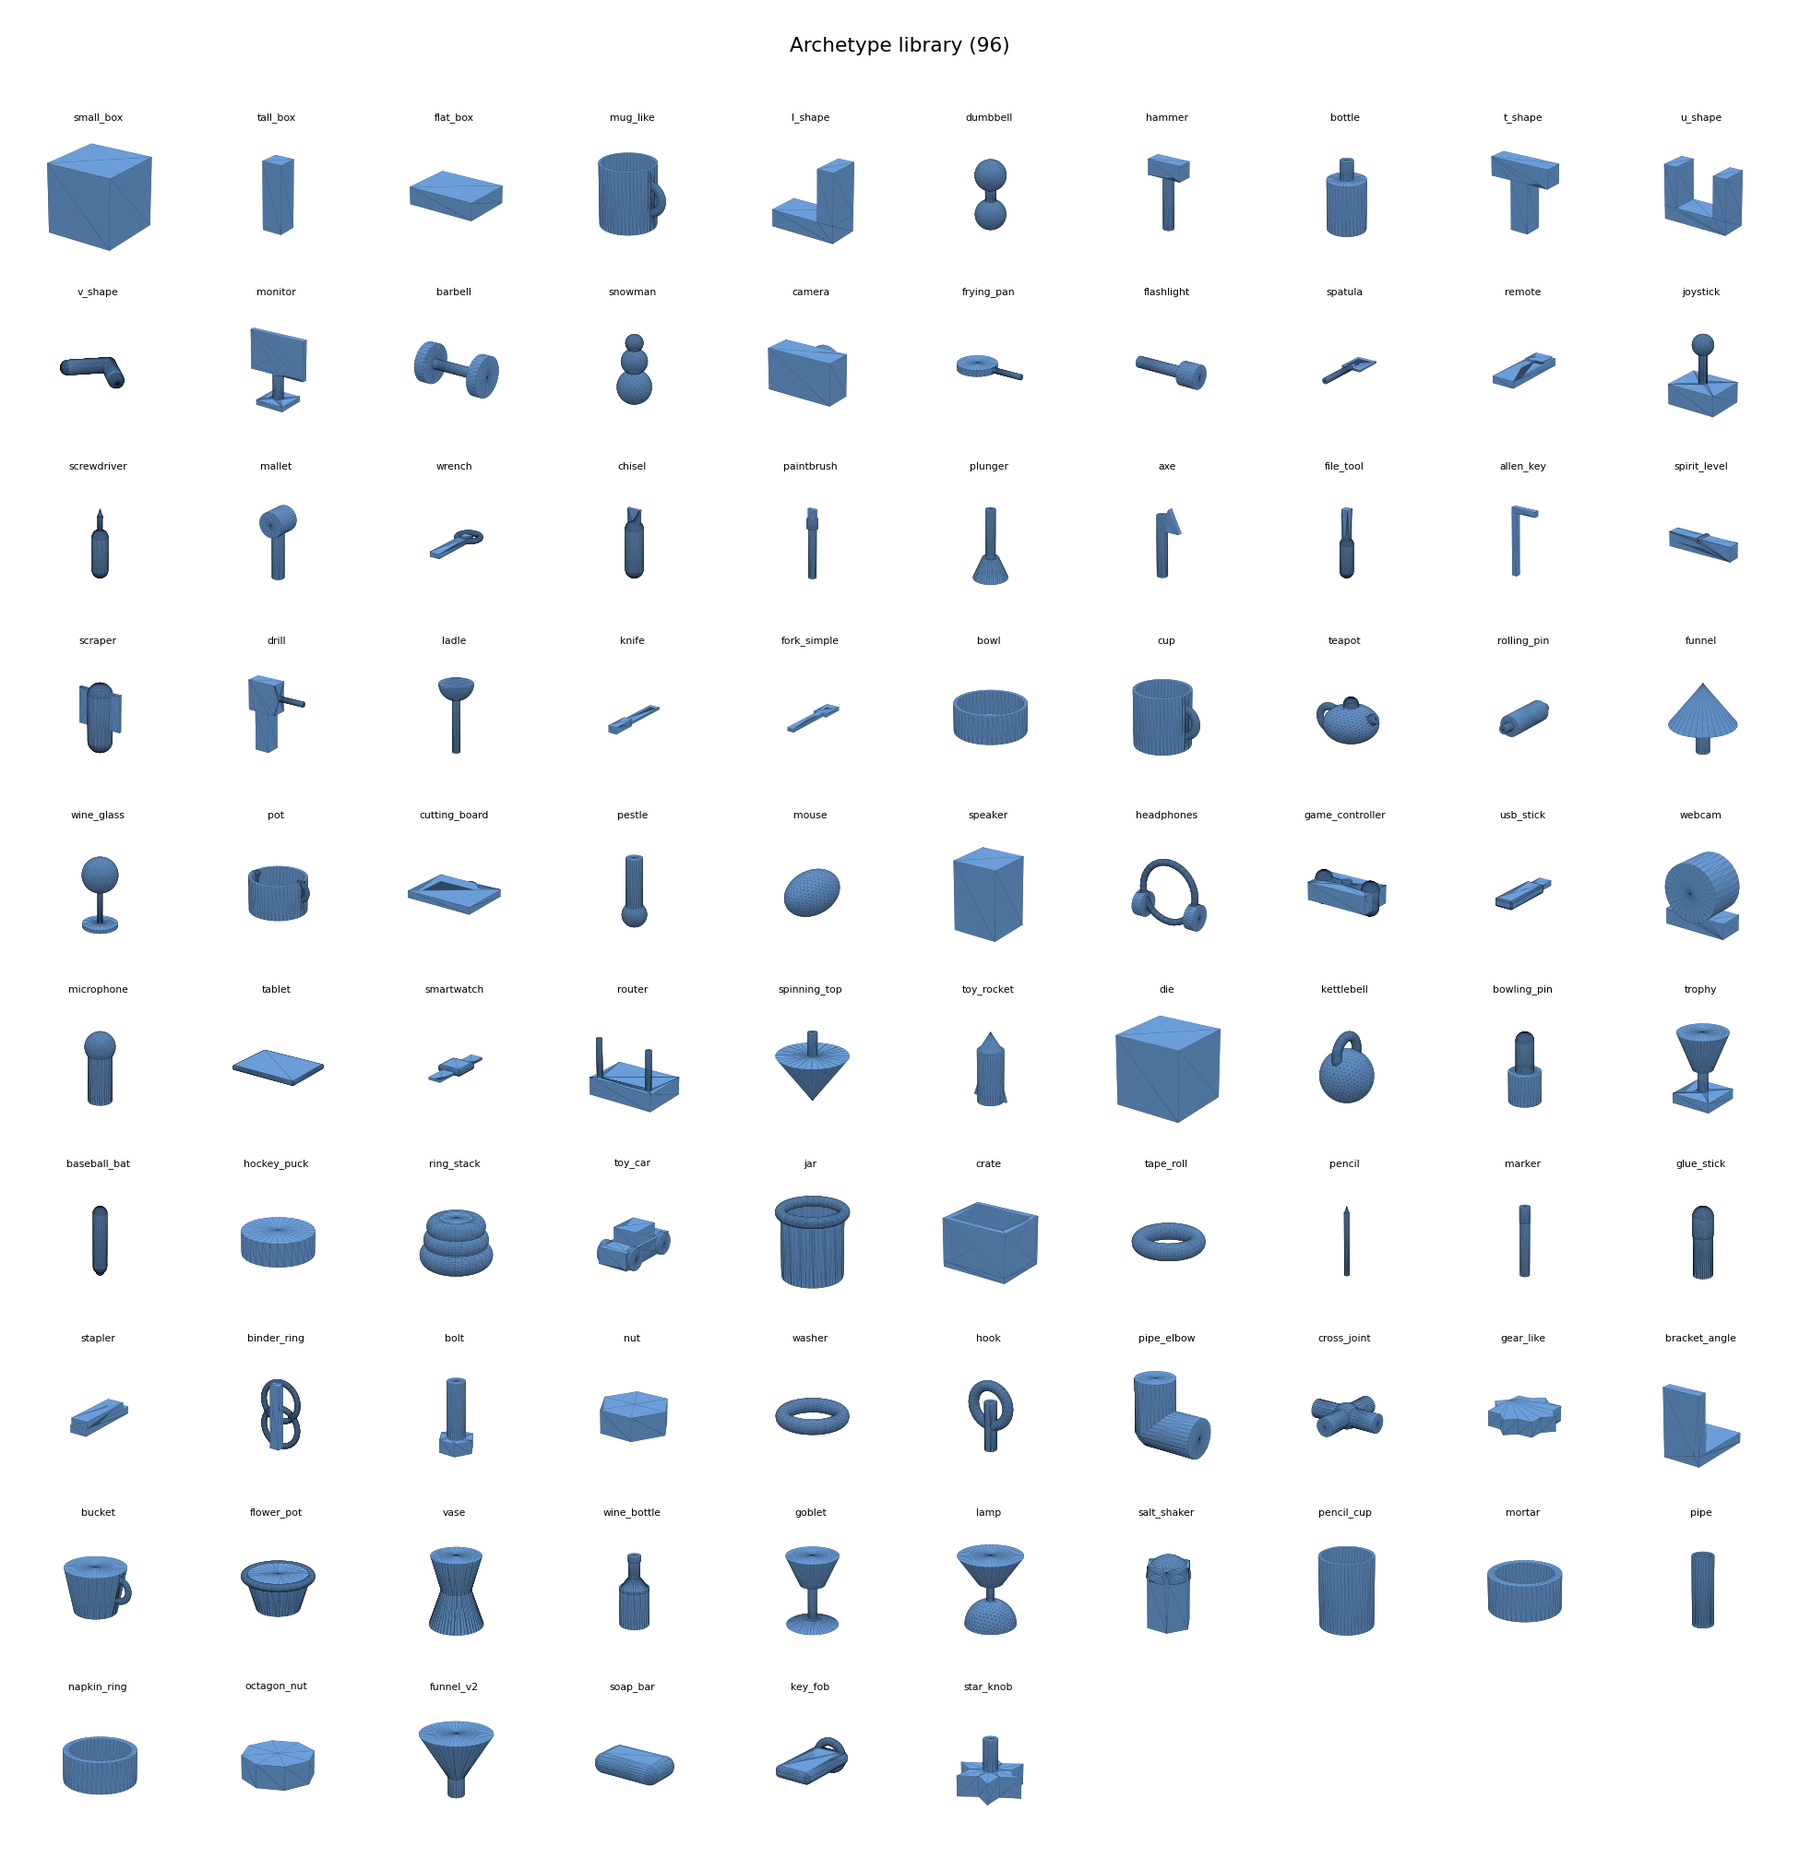
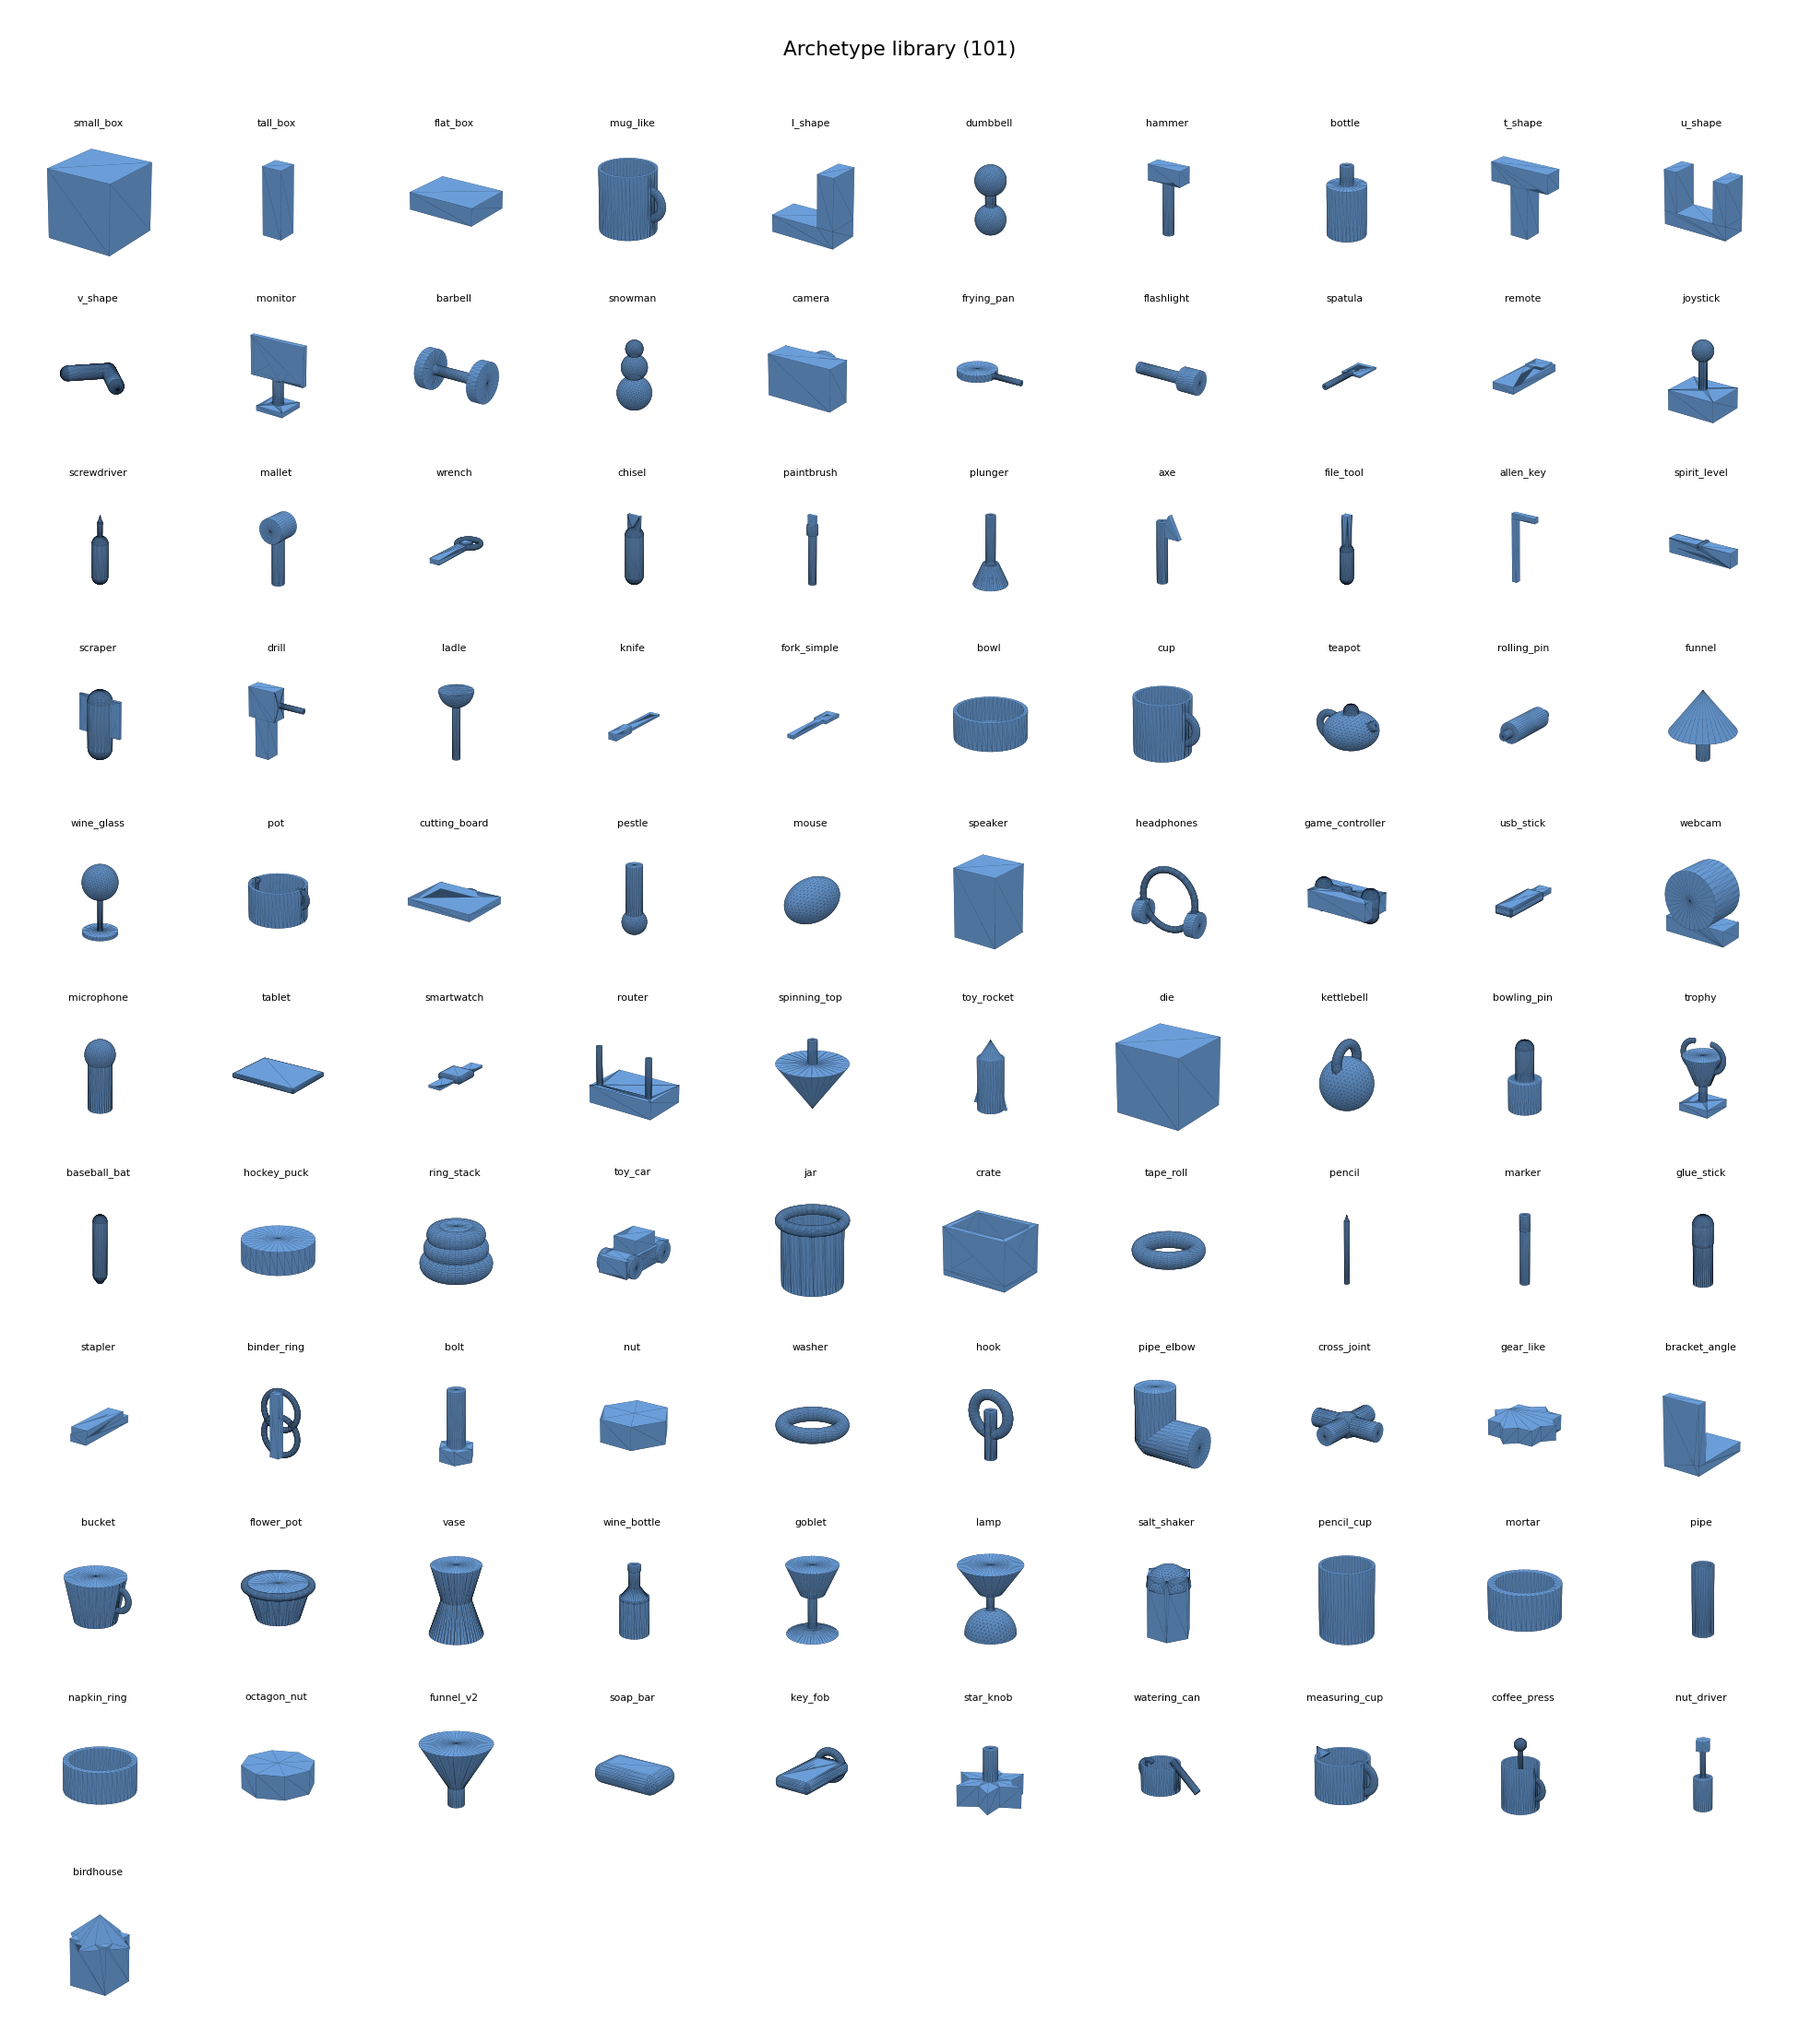
feat: roadmap pass 3 — remaining Group-A archetypes (101 archetypes), Section A complete
5 new archetypes (existing primitives, no new types):
- watering_can: hollow_shell body + angled cylinder spout + arc handle
- measuring_cup: hollow_shell body + C-handle + cone pouring lip
- coffee_press: hollow_shell carafe + plunger rod through the lid + knob + handle
- nut_driver: cylinder grip + shaft + hex socket tip
- birdhouse: box body + pyramid roof + perch

trophy rebuilt: added the two loving-cup ear handles (was base+stem+cup only).

147 tests pass (was 142); archetype gallery regenerated. ROADMAP Section A marked
complete. Remaining roadmap: dish/plate, polygon extrusion, helix, saddle primitives.

diff --git a/src/archetypes.py b/src/archetypes.py
@@ -525,8 +525,13 @@ def create_trophy(base_w: float = 0.05, cup_r: float = 0.03,
     base = _box(base_w, base_w, 0.012, z=0.006)
     stem = _cyl(0.006, stem_h, z=0.012 + stem_h / 2 - 0.002)
     # flared open cup (narrow at the stem, wide rim) instead of a solid inverted cone
-    cup = _frustum(0.012, cup_r, 0.045, z=0.01 + stem_h + 0.018)
-    return _co("trophy", base, stem, cup)
+    cz = 0.01 + stem_h + 0.018
+    cup = _frustum(0.012, cup_r, 0.045, z=cz)
+    # the loving-cup ears: a C-handle on each side of the rim
+    h_r = cup_r * 0.7
+    hl = _handle(h_r, 0.004, 0.003, arc=np.pi, x=cup_r - 0.002, z=cz + 0.015, euler=[np.pi / 2, 0, 0])
+    hr = _handle(h_r, 0.004, 0.003, arc=np.pi, x=-cup_r + 0.002, z=cz + 0.015, euler=[np.pi / 2, 0, np.pi])
+    return _co("trophy", base, stem, cup, hl, hr)
 
 
 @archetype("baseball_bat")
@@ -807,6 +812,50 @@ def create_star_knob(r: float = 0.03, h: float = 0.018, points: int = 6) -> Comp
     star = _gear(points, r, r * 0.55, h)                            # deep lobes = a knob
     shaft = _cyl(0.006, 0.03, z=h + 0.012)
     return _co("star_knob", star, shaft)
+
+
+@archetype("watering_can")
+def create_watering_can(r: float = 0.042, h: float = 0.06) -> CompositeObject:
+    body = _shell(r, 0.004, h, floor=0.006)
+    handle = _handle(0.02, 0.005, 0.004, arc=1.4 * np.pi,
+                     x=-r + 0.002, z=h * 0.65, euler=[np.pi / 2, 0, np.pi])
+    spout = _cyl(0.007, 0.085, x=r + 0.02, z=h * 0.7, euler=[0, -0.85, 0])
+    return _co("watering_can", body, handle, spout)
+
+
+@archetype("measuring_cup")
+def create_measuring_cup(r: float = 0.04, h: float = 0.058) -> CompositeObject:
+    body = _shell(r, 0.004, h, floor=0.005)
+    handle = _handle(0.02, 0.006, 0.004, arc=1.5 * np.pi,
+                     x=r + 0.001, z=h * 0.55, euler=[np.pi / 2, 0, 0])
+    lip = _cone(0.012, 0.018, x=-r + 0.003, z=h - 0.004, euler=[0, -0.7, 0])  # pouring spout
+    return _co("measuring_cup", body, handle, lip)
+
+
+@archetype("coffee_press")
+def create_coffee_press(r: float = 0.04, h: float = 0.10) -> CompositeObject:
+    carafe = _shell(r, 0.004, h, floor=0.006)
+    rod = _cyl(0.004, h + 0.04, z=(h + 0.04) / 2)                   # plunger through the lid
+    knob = _sph(0.013, z=h + 0.04)
+    handle = _handle(0.022, 0.006, 0.004, arc=1.5 * np.pi,
+                     x=r + 0.001, z=h * 0.5, euler=[np.pi / 2, 0, 0])
+    return _co("coffee_press", carafe, rod, knob, handle)
+
+
+@archetype("nut_driver")
+def create_nut_driver(grip_r: float = 0.014, grip_h: float = 0.05) -> CompositeObject:
+    grip = _cyl(grip_r, grip_h)
+    shaft = _cyl(0.004, 0.05, z=grip_h + 0.02)
+    socket = _hex(0.011, 0.016, z=grip_h + 0.045 + 0.006)          # hex socket tip
+    return _co("nut_driver", grip, shaft, socket)
+
+
+@archetype("birdhouse")
+def create_birdhouse(w: float = 0.05, h: float = 0.06) -> CompositeObject:
+    body = _box(w, w, h, z=h / 2)
+    roof = _pyr(w * 0.85, 0.032, z=h + 0.003)                      # pitched roof, seated on the body
+    perch = _cyl(0.004, 0.025, y=w / 2 + 0.006, z=h * 0.55, euler=[np.pi / 2, 0, 0])
+    return _co("birdhouse", body, roof, perch)
 
 
 # ---------------------------------------------------------------------------

diff --git a/docs/ROADMAP.md b/docs/ROADMAP.md
@@ -5,8 +5,10 @@
 > next two primitives (**rounded box**, **gear/star prism**) are built too, with
 > `gear_like` rewired to real teeth and tablet/usb_stick/smartwatch to rounded
 > bodies, plus soap_bar/key_fob/star_knob — **18 primitives, 96 archetypes**. The
-> remaining primitives (dish/plate, extrusion, helix, saddle) and archetypes below
-> are still open.
+> remaining primitives (dish/plate, extrusion, helix, saddle) are still open.
+> **Update (v2.8):** the rest of **Section A** is built too (watering_can,
+> measuring_cup, coffee_press, nut_driver, birdhouse + trophy rebuilt with ear
+> handles) — **101 archetypes**. Section A is now complete.
 
 The fidelity audit ([`PRIMITIVES.md`](PRIMITIVES.md)) took the primitive set from 9 → 14
 (hollow_shell, handle, frustum, hemisphere, hex_prism) and added a graspability gate + a
@@ -23,7 +25,7 @@ pattern). Keep containers **open** — a sealed cavity reads as two surfaces and
 
 ---
 
-## A. New archetypes unlocked by the current 14 primitives
+## A. New archetypes unlocked by the current primitives  ✅ ALL BUILT
 
 Each is a multi-part composite (parts overlap → one connected body). "Leans on" = the
 audit-added primitive that makes it look right.

diff --git a/docs/PRIMITIVES.md b/docs/PRIMITIVES.md
@@ -102,7 +102,7 @@ This is the crux of the audit — every limitation below forces an archetype to
 
 ## 2. Archetype library & fidelity audit
 
-The 96 hand-written archetypes (`src/archetypes.py` + 20 v1 factories in
+The 101 hand-written archetypes (`src/archetypes.py` + 20 v1 factories in
 `src/primitives.py`) are the "ground-truth" shapes the generator is meant to
 approximate. Multi-part archetypes deliberately **overlap** their parts so the
 union is one connected body.

diff --git a/docs/gallery/README.md b/docs/gallery/README.md
@@ -25,7 +25,7 @@ limits generation quality.
 
 ## Archetype library (`archetypes.png`)
 
-All 96 hand-written archetypes in `ARCHETYPE_REGISTRY` (`src/archetypes.py`),
+All 101 hand-written archetypes in `ARCHETYPE_REGISTRY` (`src/archetypes.py`),
 built from the 18 primitive types (box, cylinder, sphere, capsule, cone, pyramid,
 torus, ellipsoid, wedge). Each is a single connected body.
 
